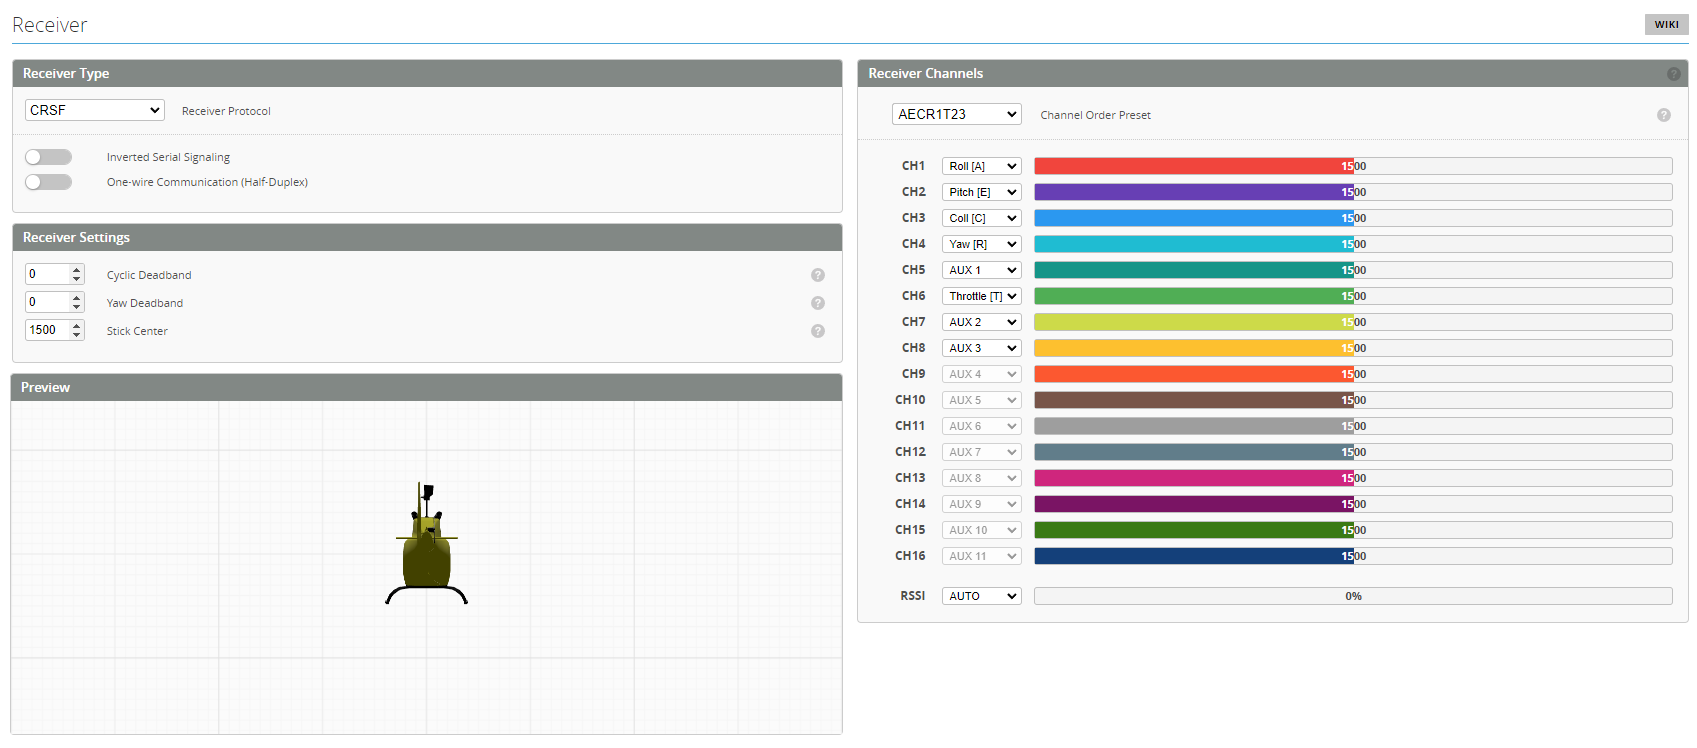
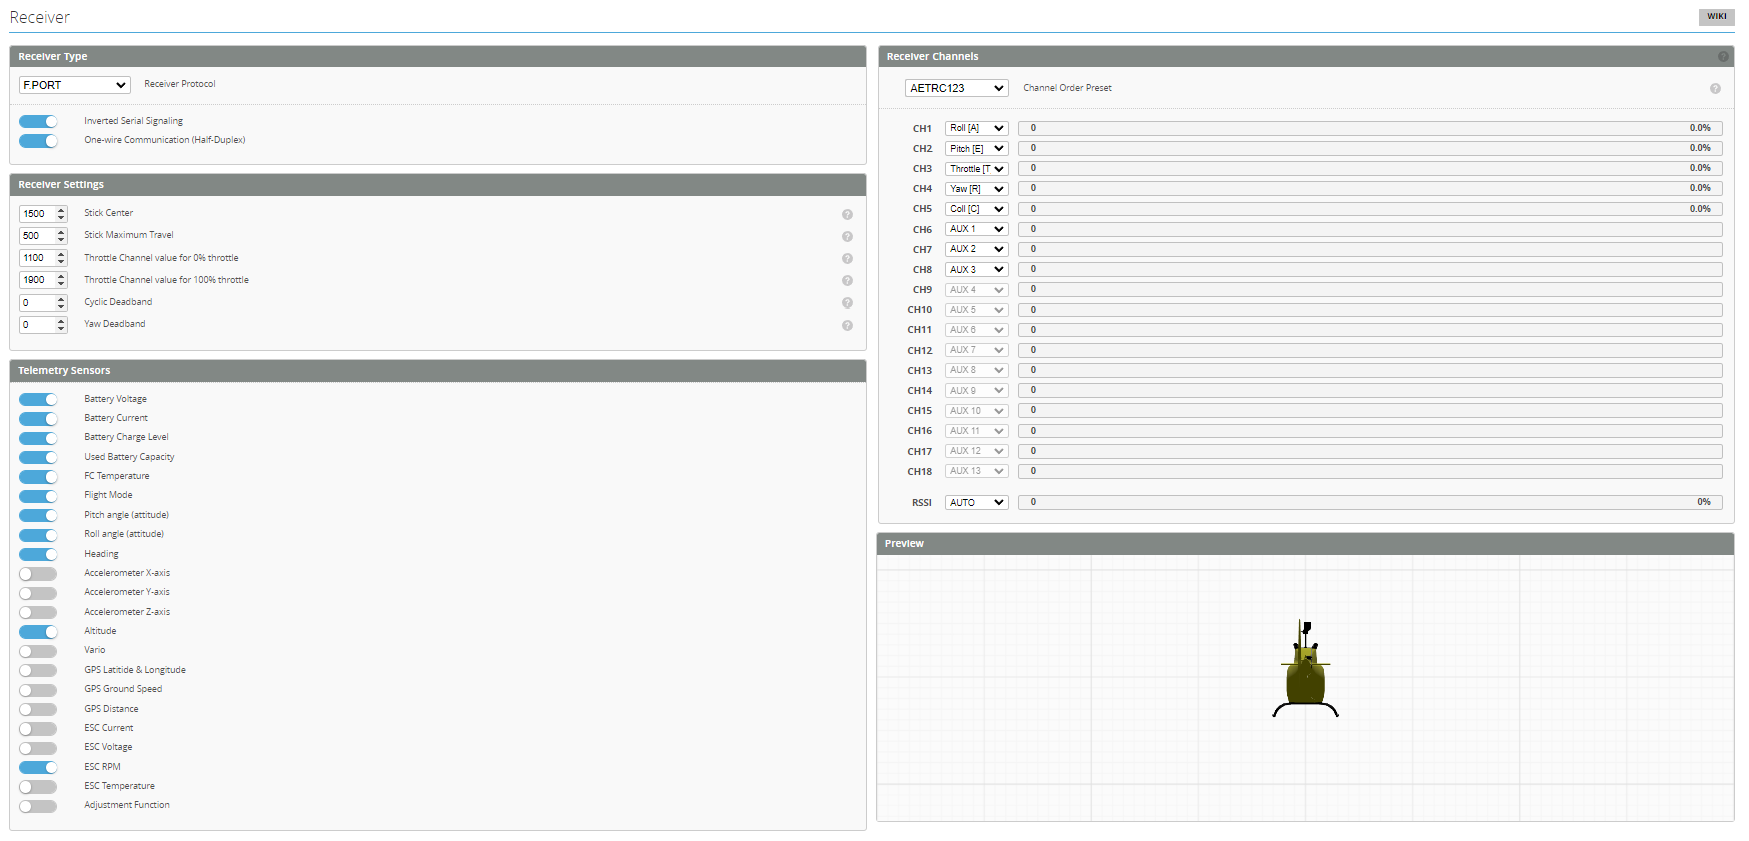
modified:   docs/Tutorial - Setup/Configuration.md 	modified:   docs/Tutorial - Setup/Receiver.md 	modified:   docs/Tutorial - Setup/Rpm Measurement.md 	deleted:    docs/Tutorial - Setup/img/config-1.png 	deleted:    docs/Tutorial - Setup/img/config-2.png 	deleted:    docs/Tutorial - Setup/img/confi

Changed region(s): [[0.0, 0.0, 0.9994, 0.984], [0.2186, 0.6457, 0.2811, 0.7995]]

diff --git a/docusaurus.config.js b/docusaurus.config.js
@@ -82,7 +82,7 @@ const config = {
         textColor: '#000000',
         isCloseable: false,
       },
-      
+
       // Replace with your project's social card
       image: 'img/docusaurus-social-card.jpg',
       navbar: {
@@ -93,7 +93,7 @@ const config = {
           srcDark: 'img/Rotorflight_outline_dark.svg',
         },
         items: [
-          {to: '/announcement', label: 'Announcements', position: 'left'},
+          { to: '/announcement', label: 'Announcements', position: 'left' },
           {
             type: 'docSidebar',
             sidebarId: 'tutorialSidebar',
@@ -120,7 +120,7 @@ const config = {
             position: 'left',
             label: 'Developers',
             to: '/docs/Developers/intro',
-          },          {to: '/blog', label: 'Blog', position: 'left'},
+          }, { to: '/blog', label: 'Blog', position: 'left' },
           {
             href: 'https://github.com/rotorflight',
             label: 'GitHub',

diff --git a/docs/Tutorial - Setup/Receiver.md b/docs/Tutorial - Setup/Receiver.md
@@ -2,23 +2,30 @@
 sidebar_position: 50
 ---
 
-One of the first things you should do is to connect a receiver to the FC. Your FC has several UARTs, and each UART has an RX and a TX. A receiver needs to be connected to an RX and/or TX pad, depending on the type of receiver.
+One of the first things you should do is to connect a receiver to the FC. Your FC has several UARTs, and each UART has a TX and an RX. A receiver needs to be connected to an RX and/or TX pad, depending on the type of receiver.
 
-First activate `Serial RX` on that UART.
+## Receiver Configuration
+
+First activate `Serial Rx` on the UART you have connected your receiver.
 
 ![Receiver Tab](./img/receiver-uart.png)
 
-* SBUS needs to be connected to an RX pad. With `Inverted Serial Signaling` set to ***ON***
+## Receiver Type
+
+There are many receiver protocols supported in Rotorflight, SBUS in the one of the most known receiver protocols, however it is not telemetry capable. On the Other hand FrSky F.Port and ELRS are the most used protocols because they support _telemetry_ and thus allow you to use the [Rotorflight LUA app](./LUA%20Scripts) to perform tuning using you radio.
+
+
+* SBUS needs to be connected to an RX pad. With `Inverted Serial Signaling` activated.
 
 ![Receiver Tab](./img/receiver-sbus.png)
 
-* [SBUS with SmartPort](https://oscarliang.com/sbus-smartport-telemetry-naze32/): the SBUS pin needs to be connected to a free UART RX, with `Inverted Serial Signaling` set to ***ON***, and the S.Port pin needs to be connected to a free UART TX of *another free UART*.
+* [SBUS with S.Port](https://oscarliang.com/sbus-smartport-telemetry-naze32/): the SBUS pin needs to be connected to a free UART RX, with `Inverted Serial Signaling` activated, and the S.Port pin needs to be connected to a free UART TX (of *another free UART*), and you activate `Telemetry: FrSky SmartPort` on that UART.
 
 ![Receiver Tab](./img/receiver-sbus.png)
 ![Receiver Tab](./img/receiver-uart-sport.png)
 
 
-* F.Port needs be connected to a TX pad. With `Inverted Serial Signaling` set to ***ON*** ,and `Half-Duplex` set to ***ON***
+* F.Port needs be connected to a TX pad, with `Inverted Serial Signaling` activated ,and `Half-Duplex` activated.
 
 ![Receiver Tab](./img/receiver-fport.png)
 
@@ -35,40 +42,52 @@ Please see the documentation for your FC for more details on how to connect your
 
 ![Receiver Tab](./img/receiver-tab.png)
 
-## Configure your receiver
+## Receiver Channels
 
-Connect the FC to your computer and go to the *Receiver* tab in Rotorflight Configurator to configure your receiver.
-- Check *Channel Map* and make sure the *Receiver Channels* respond as expected. 
-    * For **CRSF/ELRS** use *AECR1T23* Channel Order, *ARM* switch should be always set to *CH5*.
-- Revert channels on your transmitter if a channel responds the wrong way around. 
-- Make sure that centre stick is at 1500µs. You might need to recalibrate your transmitter now and then.
-- Set channel endpoints to 1000µs and 2000µs.
-- Do not use trim for Roll, Pitch or Yaw on your transmitter. 
-- You can use trim for Collective to adjust zero collective pitch.
+Select the corresponding channels order based on the selected receiver type.
 
-You should end up with something like this:  
+![Receiver Tab](./img/receiver-channels.png)
+
+* For FrSky receivers, set the channels in your radio as per the below order.
+
+![Receiver Tab](./img/receiver-order-frsky.png)
+
+* For ELRS receivers, set the channels in your radio as per the below order.
+
+:::note
+For **CRSF/ELRS** always set *ARM* switch to *CH5* on the radio, also set *THR* to *CH6*
+:::
+
+![Receiver Tab](./img/receiver-order-elrs.png)
+
+* Revert channels on your transmitter if a channels responds the wrong way around. 
+
+## Receiver Settings
+
+![Receiver Tab](./img/receiver-settings.png)
+
+* Adjust **Stick Center** as required by your radio to achieve 0% when the _ROLL, PITCH, YAW_ sticks are centered. 
+* Adjust **Stick Maximum Travel** achieve 100% at the sticks limits.
+* Adjust **Throttle Channel value for 0% throttle** to achieve 0% on the channel bar.
+* Adjust **Throttle Channel value for 100% throttle** to achieve 100% on the channel bar.
+    * NOTE! Throttle hold must send a value than is lower than 0% level, for example you can set you radio to send 1000us at 0% throttle, and 975us at throttle hold.
+* Adjust **Cyclic Deadband** and **Yaw Deadband** to the smallest possible value that doesn't make your model drift in the *Rates Preview* window.
+
+:::note
+Do not use trim for Roll, Pitch or Yaw on your transmitter. 
+:::
+
+You should end up with something similar to this:  
 ![Receiver tab](./img/tx-output-calibrated.gif)
 
-### Deadband
+## Telemetry Sensors
 
-Set *Cyclic Deadband* and *Yaw Deadband* to the smallest possible value that doesn't make your model drift in the *Rates Preview* window.
+Use the below switches to enable/disable the telemetry sensors from the telemetry stream sent to your radio.
 
-### OpenTX / EdgeTX
+![Receiver Tab](./img/receiver-telem-sensors.png)
 
-The channel mid- and endpoints can be set on the *Output* page of your model. 
-- Set *Min* so that full left/down stick indicates 1000µs (e.g. -97.8).
-- Set *Max* so that full right/up shows 2000µs.
-- Set *PPM Center* to 1500.
-
-### But... my transmitter can't set endpoints!
-Some old transmitters can't adjust endpoints. In that case you could use the `rxrange` CLI command to scale the output of your transmitter to 1000-2000µs. [Oscar](https://oscarliang.com/adjust-tx-channel-mid-end-point/) can show you how.
-
-### I'm only using RX2 for my receiver. Can I use TX2 for something else?
-
-No. You can't connect two different devices to the same UART. So you can't connect an SBUS receiver to RX2 and OpenLager to TX2, for example.
-
-### Calibrating Stability Mode
-
-The stability modes (Angle, Horizon or Rescue) can be calibrated so that the heli doesn't drift much when using such a mode. This can only be done via the [accelerometer trims](https://github.com/rotorflight/rotorflight/wiki/Using-stability-modes/_edit#calibrating-stability-modes). Do not use trim on your transmitter.
-
-
+:::caution
+Calibrating Stability Mode
+The stability modes (Angle, Horizon or Rescue) can be calibrated so that the heli doesn't drift much when using such a mode. This can only be done via the [accelerometer trims](https://github.com/rotorflight/rotorflight/wiki/Using-stability-modes/_edit#calibrating-stability-modes). 
+**Do not use trim on your transmitter**.
+:::

diff --git a/docs/Tutorial - Setup/Configuration.md b/docs/Tutorial - Setup/Configuration.md
@@ -3,8 +3,14 @@ sidebar_position: 40
 ---
 # Configuration
 
+## Personalization
+Allows you to set your heli name to be shown in the OSD, blackbox logs and diff/dump outputs.
+
+![Configuration Tab](./img/config-prsnl.png)
+
 ## System Configuration
-### PID Loop Speed
+
+### PID Loop Frequency
 This is the frequency that the control loop operates at. Set to between 1kHz and 2kHz. There is limited or no benefit in higher rates and will result in high loads for your flight controller. This could be an issue for F405 and F411 boards.  
 
 ### Accelerometer
@@ -16,34 +22,44 @@ This is used for Altitude hold Rescue which is currently still being developed
 ### Magnetometer
 Currently this does not provide any control functionality; however, can be used for telemetry. 
 
-![Configuration Tab](./img/config-1.png)
+![Configuration Tab](./img/config-sys-conf.png)
+
+## Features
+This section is used to enable or disable features.
+
+![Configuration Tab](./img/config-features.png)
+
+:::tip
+Features such as the Serial Rx, GPS, ESC Telemetry must be selected in the [Serial ports](#serial-ports) section before selecting the Feature here. 
+:::
+
 ## Serial Ports
 Please choose the functions you wish to assign to your UART. 
 
-### Serial Rx
-One of the first things you should do is connect a receiver to the FC. Your FC has several UARTs, and each UART has an RX and a TX. A receiver needs to be connected to an RX and/or TX pad, depending on the kind of receiver.
+![Configuration Tab](./img/config-serial.png)
 
-* DSM2/DMSX/IBUS/TBS need to be connected to a free UART RX.  
-* SBUS also needs to be connected to an RX pad. However, it's an inverted signal, so set serialrx_inverted = ON if you have an F7 processor. If you're using an F4, use the SBUS pad and read this.
+### MSP
 
-* FPort can be connected to a TX pad. It's also an inverted signal.  
-* ELRS needs an RX and a TX on the same UART.  
-* SBUS with SmartPort needs to be connected to a free UART RX and a TX of another free UART. Both signals are inverted.
-Please see the documentation for your FC for more details on how to connect your receiver.  
+As the name suggests, usually only used for lower-level communication using the MSP (MultiWii Serial Protocol) for configuration done by external devices, or to allow a more direct way of control. You can also set a specific baud rate
+
+:::caution
+This is not to be used as a "toggle" for the current UART when setting it (for example) for Serial RX. It's a relatively common mistake to make, and then cause your config to not save to prevent unwanted behavior when conflicting options are set
+:::x
 
 ### GPS
 GPS is not currently used for Rotorflight for any flight controls. This can be used for telemetry purposes.
+
+### Serial Rx
+Check [Receiver](./Receiver) page for detailed info. 
 
 ### ESC Telemetry
 Set a UART to ESC Telemetry if you wish to use the [ESC_Sensor Feature](#features).
 
 ### Blackbox Logging
-This enables a UART for external logging to an OpenLarger.
+This enables a UART for external logging to an [OpenLager](./Blackbox#openlager).
 
-*** Link to go here ***
-
-
-![Configuration Tab](./img/config-2.png)
+### Telemetry: FrSky SmartPort
+This is used when connecting an FrSky SmartPort receiver pin to this UART.
 
 ## Board and Sensor alignment
 
@@ -55,21 +71,13 @@ A method of determining what settings to use:
 * Move the FC around until the movement of the FC matches the movement of the helicopter on the "Status" page. You may have to "reset Z axis".  
 * Now take note of how you have to rotate/flip the board in order to get the FC oriented in the way you wish to mount it in the helicopter. An example would be that you have to rotate the board 180 and flip. You would chose 'CW180 Flip' in the Gyro alignment dropdown.    
 
-![Configuration Tab](./img/config-3.png)
-
-## Features
-:::caution
-This section is used to enable or disable features. Features such as the Serial Rx, GPS, ESC Telemetry must be selected in the [Serial ports](#serial-ports) section before selecting the Feature here. 
-:::
-
-![Configuration Tab](./img/config-4.png)
-
+![Configuration Tab](./img/config-sens-align.png)
 
 ## Accelerometer Trim
 This section is used to trim the roll and pitch axis while the helicopter is in Stability mode (e.g Angle, horizon or Rescue). 
 
 The Transmitter trims for each cyclic axis must be at neutral when using Rotorflight (at 1500us). This will usually result in the helicopter drifting while in a stable hover. To correct for this drift the Accelerometer roll and pitch trims are to be used. 
 
-This can be done either directly by the configurator or via the transmitter with Lua or Adjustments *** Links required***
+This can be done either directly by the configurator or via the transmitter with [Lua](https://github.com/rotorflight/rotorflight/wiki/Using-stability-modes/_edit#calibrating-stability-modes) or Adjustments.
 
-![Configuration Tab](./img/config-5.png)
+![Configuration Tab](./img/config-accel-trim.png)

diff --git a/docs/Tutorial - Setup/Rpm Measurement.md b/docs/Tutorial - Setup/Rpm Measurement.md
@@ -38,7 +38,7 @@ on a pin that is connected to the FC's solder pads. Negative channels, like CH3N
 frequency sensor use. This can be done via the [Custom defaults remapping spreadsheet](./Remapping) or by reading through the STM32 manual for your processor.
 
 :::note
-We recommend that Freq inputs are alocated to pins that have Timer 2 or Timer 5 available. If 2 Freq inputs are required (e.g. Motorized tail) then both inputs can share the same timer. In the remapping spreadsheet these pins are indicated by the green box marked Freq.
+We recommend that Freq inputs are allocated to pins that have Timer 2 or Timer 5 available. If 2 Freq inputs are required (e.g. Motorized tail) then both inputs can share the same timer. In the remapping spreadsheet these pins are indicated by the green box marked Freq.
 :::
 
 In this example, we have chosen to use the LED_STRIP pin as our frequency input. We see there is only one option (Timer1) on AF1. We can use this pin but must not allocate any of the Servos or Motors to Timer1. Only the motor pins share this timer so we can choose either AF2 (timer3) or AF3 (timer8).
@@ -72,7 +72,7 @@ Bidirectional DSHOT is fully supported from firmware version 32.7.0 onward. ESCs
 BLHeli_S ESCs do not support Bidirectional DSHOT. In order to access this functionality with a BLheli_S ESC, alternative firmware must be flashed. There are currently 3 options for this.
 
 ##### 1. Bluejay
-Bluejay is an open source firmware for BLheli_S ESCs which supports Bidirectional DSHOT, see [BlueJay](https://github.com/mathiasvr/bluejay). This firmware has been used successfully for several Rotorflight builds. Bluejay is capable of flashing individual settings to each ESC (tail and main) which is important when using an all in one (AIO) board. Bluejay v0.15 and later also supports disabling *damped light* (regenerative breaking), a must if your helicopter doesn't have a one way bearing. For example, a K110 will yaw/spin rapidly on throttle hold if *damped light* is enabled. See [Flashing Bluejay](Blheli_S-to-Bluejay) for details.
+Bluejay is an open source firmware for BLheli_S ESCs which supports Bidirectional DSHOT, see [BlueJay](https://github.com/mathiasvr/bluejay). This firmware has been used successfully for several Rotorflight builds. Bluejay is capable of flashing individual settings to each ESC (tail and main) which is important when using an all in one (AIO) board. Bluejay v0.15 and later also supports disabling *damped light* (regenerative breaking), a must if your helicopter doesn't have a one way bearing. For example, a K110 will yaw/spin rapidly on throttle hold if *damped light* is enabled. See [Flashing Bluejay](https://oscarliang.com/bluejay-blheli-s/) for details.
 
 ##### 2. BLheli_M
 BLheli_M is developed by JazzMaverick. It supports Bidirectional DSHOT, but you can't disable *damped light* mode and it does not have the ability to download individual config to each ESC. [JazzMaverick on GitHub](https://github.com/JazzMaverick/BLHeli/tree/JazzMaverick-patch-1/BLHeli_S%20SiLabs)
